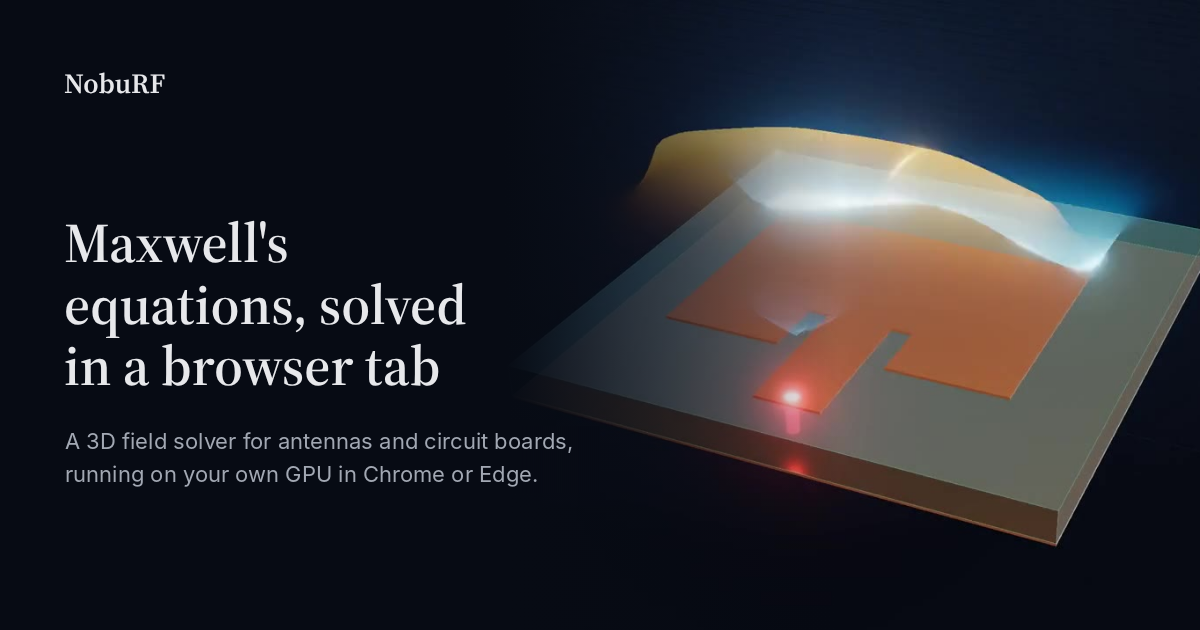
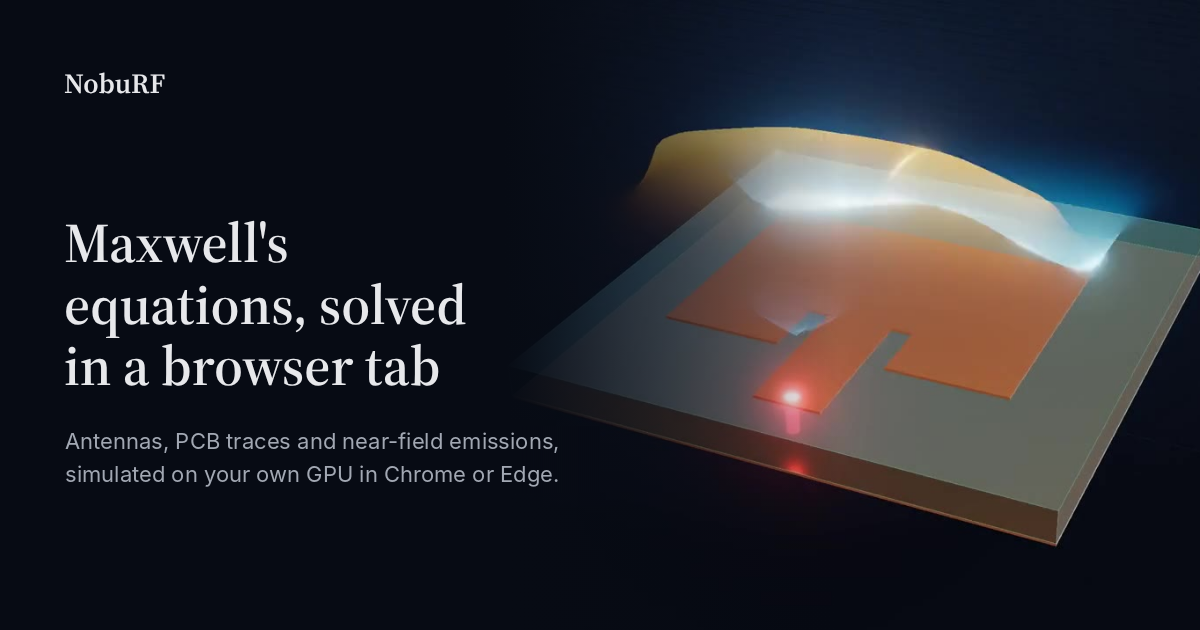
Social preview: name PCB traces and near-field emissions
Claude-Session: https://claude.ai/code/session_0195o4HnKQGHLSxxdjUVyhYt

Changed region(s): [[0.0617, 0.6635, 0.4933, 0.7841]]

diff --git a/site/index.html b/site/index.html
@@ -4,9 +4,9 @@
 <meta charset="utf-8">
 <meta name="viewport" content="width=device-width, initial-scale=1">
 <title>NobuRF: a 3D electromagnetic solver in the browser</title>
-<meta name="description" content="A 3D field solver for antennas and circuit boards that runs on your own GPU through WebGPU, in Chrome or Edge.">
+<meta name="description" content="A 3D field solver for antennas, PCB traces and near-field emissions that runs on your own GPU through WebGPU, in Chrome or Edge.">
 <meta property="og:title" content="NobuRF: Maxwell's equations, solved in a browser tab">
-<meta property="og:description" content="A 3D field solver for antennas and circuit boards, running on your own GPU in the browser.">
+<meta property="og:description" content="A 3D field solver for antennas, PCB traces and near-field emissions, running on your own GPU in the browser.">
 <meta property="og:image" content="https://noburf.llom.party/assets/og.png">
 <meta property="og:image:alt" content="A patch antenna for the 5.8 GHz band with its electric field, and the line: Maxwell's equations, solved in a browser tab.">
 <meta property="og:url" content="https://noburf.llom.party/">
